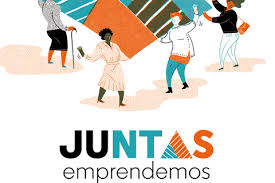
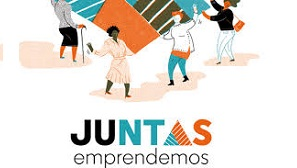
Retocamos imagenes para que queden alineadas Agregamos validacion de contraseña en login.php

diff --git a/css/style.css b/css/style.css
@@ -52,7 +52,7 @@ body{
   background-color: RGB(120, 22, 22);
   text-transform: uppercase;
   font-weight: bold;
-  font-size: 0.7em;
+  font-size: 0.5em;
   margin-right: 10%;
   margin-bottom: 1%;
 }
@@ -190,6 +190,7 @@ body{
     float: right;
     width: 12%;
     margin-right: 1%;
+    margin-left: 1%;
     font-size: 0.5em;
   }
 

diff --git a/login.php b/login.php
@@ -46,17 +46,22 @@
             <?php else: ?>
               <input type="email" id="email" name="email" value="">
             <?php endif ?>
-          <small id="emailHelp" class="form-text text-muted">
+          <small id="emailHelp" class="form-text text-danger">
             <?php if(isset($errores['email'])) :?>
               <?= $errores['email'] ?>
             <?php endif ?>
           </small>
 	        </div>
 
-	        <div class="field-group">
-	          <label for="password">Contraseña</label>
-	          <input type="password" name="password" value=""><br>
-	        </div>
+          <div class="field-group">
+            <label for="password">Contraseña</label>
+            <input type="password" id="password" name="password" value="">
+            <small id="emailHelp" class="form-text text-danger">
+              <?php if(isset($errores['password'])) :?>
+                <?= $errores['password'] ?>
+              <?php endif ?>
+            </small>
+          </div>
 					<br>
 					<div class="field-group remember-me">
 						<input type="checkbox" id="rememberMe" name="rememberMe" value="">

diff --git a/Home.php b/Home.php
@@ -80,14 +80,6 @@
               </div>
               <p>Breve descripción del post.</p>
             </article>
-            <article class="post">
-              <h2>RECREACIÓN</h2>
-              <div class="photo-container">
-                <img class="photo" src="images/entretenimiento.jpg" alt="foto 01">
-                <a class="more" href="#">ver más</a>
-              </div>
-              <p>Breve descripción del post.</p>
-            </article>
 
           </section>
         <?php endif ?>
